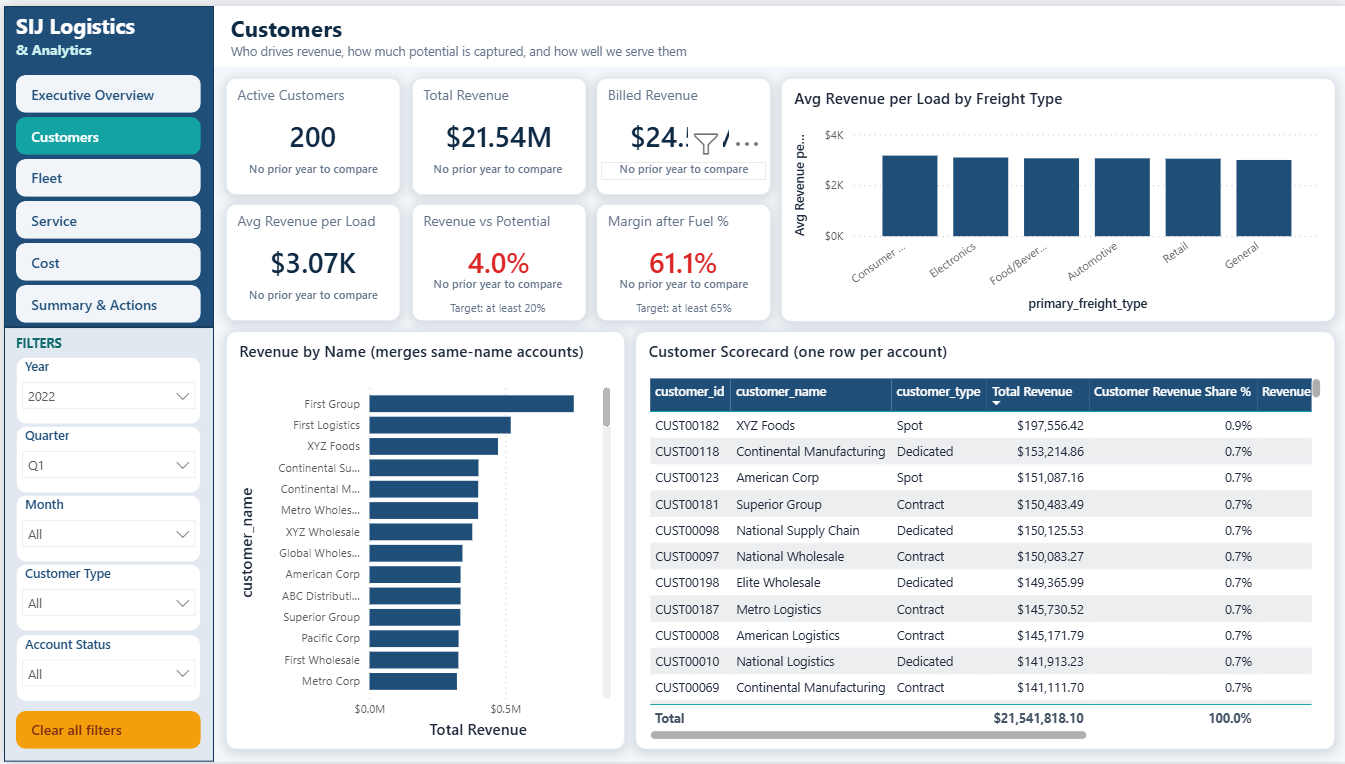
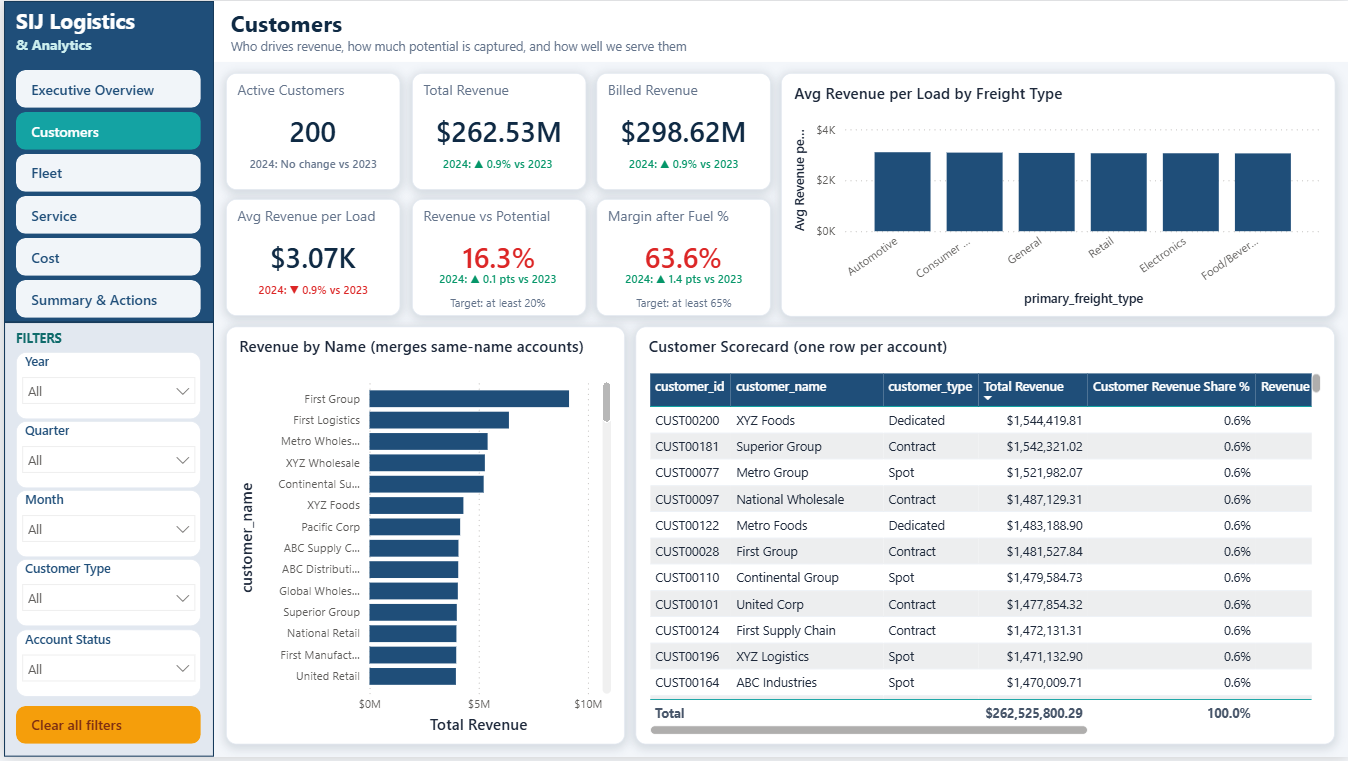
docs: replace screenshots with full-period views
The earlier screenshots were filtered to Q1 2022, the first quarter of
data, so every KPI card read "No prior year to compare". The new ones
show January 2022 to December 2024 with no filters, so the cards show the
2024 vs 2023 comparison and the targets. README caption updated to match.

diff --git a/README.md b/README.md
@@ -19,8 +19,8 @@ Author: **Mbaji Austin** · Licence: [MIT](LICENSE) · Changes: [CHANGELOG](CHAN
 
 ## Screenshots
 
-Shown filtered to Q1 2022 (the first quarter of data, so the cards read "No prior year
-to compare"; with 2023 or 2024 selected they show the change against the year before).
+Shown for the full period, January 2022 to December 2024, with no filters. Each KPI card
+compares the latest year with the one before (2024 vs 2023), green when the change is good.
 
 **Executive Overview** - headline KPIs with targets, revenue against cost, cost mix and on-time trend
 
